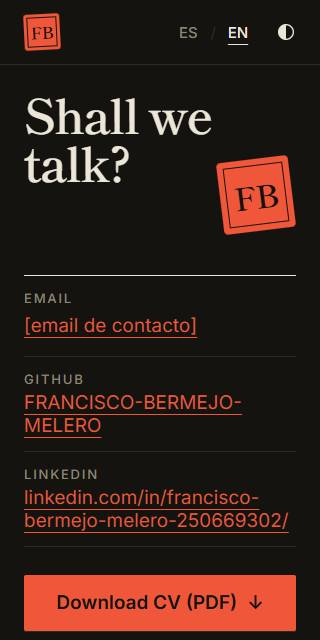
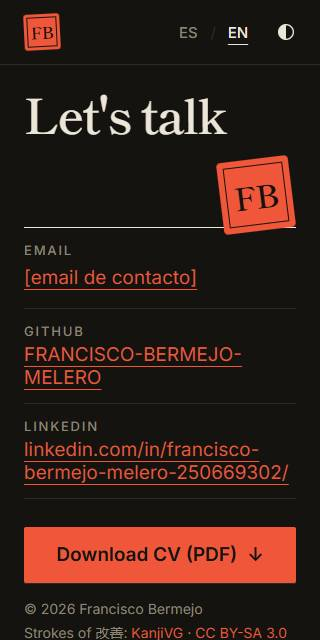
📝 docs(auto): 74 ficheros: 02-DOCS/wiki/ftd/capturas-contenido/en-1440-papel-contacto.jpg, 02-DOCS/wiki/ftd/capturas-contenido/en-1440-papel-inicio.jpg, 02-DOCS/wiki/ftd/capturas-contenido/en-1440-papel-proyectos.jpg y 71 más [skip ci]
Desde: Contenido real del portfolio en español e inglés

Changed region(s): [[0.0625, 0.375, 0.9375, 1.0], [0.0625, 0.125, 0.7188, 0.3125]]

diff --git a/02-DOCS/wiki/ftd/contenido-revision.md b/02-DOCS/wiki/ftd/contenido-revision.md
@@ -153,7 +153,7 @@ Grupos en inglés: Frontend · Web3 · Backend & tools · AI & automation (**red
 ### 六 Contacto
 | Campo | ES | EN | Origen |
 | --- | --- | --- | --- |
-| Titular | ¿Hablamos? | Shall we talk? | ya estaba; EN **redactado** |
+| Titular | ¿Hablamos? | Let's talk | ya estaba; EN **redactado** («Shall we talk?» empujaba el sello 6 px fuera de la pantalla a 1440) |
 | Texto breve | — | — | el diseño no tiene hueco para él (d-13, m-12) |
 | Email | **pendiente** | | — |
 | GitHub | github.com/FRANCISCO-BERMEJO-MELERO | | spec |
@@ -252,5 +252,30 @@ Los marcadores que quedan (`pnpm content:pending`) son exactamente estos: 3 año
   visibles, y el orden de Tab cuenta los enlaces reales de cada panel. `reference-specs.ts`: fuera
   la medida de `project-tech-todo`, que ya no existe.
 
-## Validación
-Se completa al final de la sesión (abajo).
+## Validación (22 oct, sobre el build de esta rama)
+| # (spec) | Comprobación | Resultado |
+| --- | --- | --- |
+| 1 | Cero marcadores | `pnpm content:pending`: quedan solo los de «Pendiente» (3 años, email, CV, 3 capturas y su pie). En el HTML de `/` y `/en/`: sin `href="#"`, `lorem`, `TODO` ni `XXXX` |
+| 2 | Build | `pnpm build`: `astro check` 0 errores, 0 avisos, 0 sugerencias; 2 páginas (`/`, `/en/`); sin avisos nuevos |
+| 3 | Enlaces externos | 10 responden 200: los 5 repos, el perfil de GitHub, las 2 demos, KanjiVG y la licencia CC BY-SA 3.0. LinkedIn: 999 (bloqueo de bots; ver incoherencias) |
+| 4 | Encaje | `pnpm qa:content` ✓: 1440, 390 y 320 px × papel y sumi × ES y EN, con y sin reduced motion. Sin desbordes, sin textos que se crucen y el nombre del hero en 2 líneas a 320 px. 72 capturas en `capturas-contenido/` (`<idioma>-<ancho>-<modo>-<sección>.jpg`). Se comprobó que la regla de solapes detecta el fallo real que hubo (el kaizen largo sobre los datos rápidos) |
+| 4 | Pruebas de cada sección | ✓ `qa:about`, `qa:journey`, `qa:contact`, `qa:hanko`, `qa:kaizen`, `qa:nav`, `qa:theme`, `qa:weight`; ✓ `qa:axe`, `qa:keys` y `qa:overflow` en `/` y en `/en/` |
+| 4 | `qa:specs` y `qa:projects` | ✗ por una sola diferencia: Chainview tiene **una** tecnología del stack (Go) y su fila de etiquetas mide 33 px en vez de los 74 de la maqueta (que tenía relleno); el dato y los enlaces suben 41 px. Es contenido real, no un desborde. **Decide**: dejarlo así y actualizar la medida, o dar a la fila un alto mínimo |
+| — | `qa:hero` y `qa:perf` | ✗ fotogramas de más de 33 ms con CPU ×4. Ya estaba abierto en la fase 6 («repetir con el equipo en reposo»). No se ha medido contra la rama anterior en esta sesión |
+| 5 | SEO | `lang` es / en; `hreflang` es, en y x-default recíprocos en las dos páginas; JSON-LD válido (`JSON.parse`) con `Person`; descripción de 154 (ES) y 157 (EN) caracteres. URL relativas hasta que haya dominio |
+| — | Control de `qa:content` (puerta nueva) | Falla con un caso malo conocido (el kaizen largo inyectado: detecta el cruce) y pasa con el contenido final. Límite: solo mira cajas de texto; un elemento no textual que se sale (el sello de Contacto) lo detectó `qa:overflow`, no `qa:content` |
+| 6 | Accesibilidad del contenido | `lang` por página; los kanji llevan `lang="ja"` y su lectura (escena: «改善, kaizen»; significado: kai / zen; pie: lectura oculta); la única imagen tiene `alt`; axe 0 serious/critical en ES y EN |
+
+Última pasada, con el árbol final (base `4d0e36c`, cambios sin commit hasta este): build 0/0/0,
+`qa:content` ✓, `qa:specs` y `qa:projects` ✗ solo por la fila de etiquetas de Chainview.
+`qa:about`, `qa:journey`, `qa:hanko`, `qa:kaizen`, `qa:nav`, `qa:theme` y `qa:weight` pasaron sobre el
+build anterior al último cambio (titular EN de Contacto y espacio del pie); `qa:contact`,
+`qa:overflow` y `qa:content` se repitieron después.
+
+**Veredicto: no cerrada.** Quedan abiertos: los pendientes de Fran (email, CV, años, capturas), la
+decisión sobre la fila de etiquetas de Chainview y los fotogramas de `qa:hero` / `qa:perf` (abierto
+desde la fase 6). Todo lo demás de la spec tiene evidencia arriba.
+
+## Siguiente paso
+Fran revisa los textos marcados como **redactado**, pasa los datos pendientes y decide lo de Chainview.
+Con eso, `STRICT_CONTENT=1 pnpm build` debe pasar y la fase se cierra.
